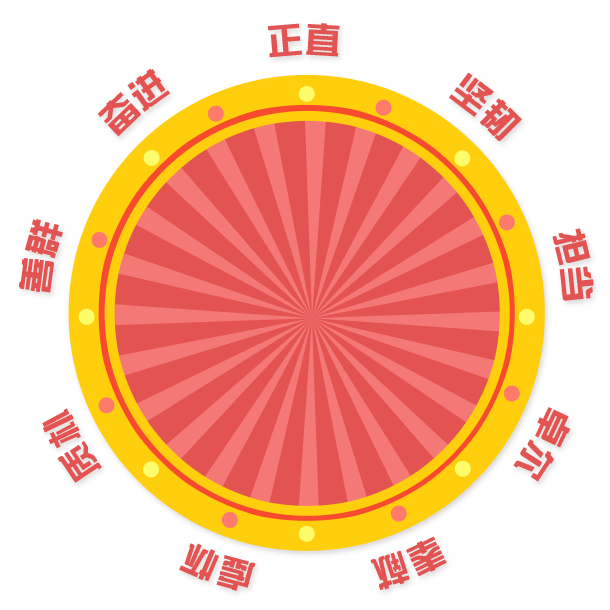
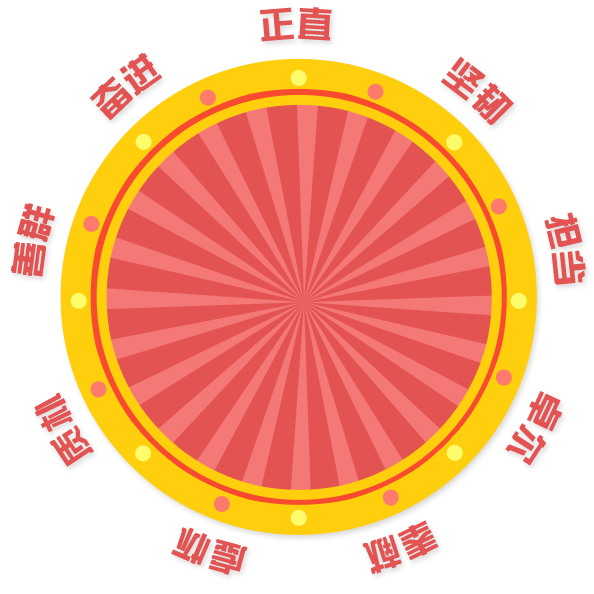
may be ok

Changed region(s): [[0.0, 0.0, 1.0, 0.9697]]

diff --git a/app/templates/draw.html b/app/templates/draw.html
@@ -2,6 +2,7 @@
 
 {% block header %}
     <link rel="stylesheet" href="/static/css/draw.css">
+    <link rel="stylesheet" href="/static/css/animate.css">
 {% endblock %}
 
 {% block content %}
@@ -9,19 +10,54 @@
         <img src="/static/img/draw/header.png" alt="">
     </div>
     <div class="draw__wheel--wrap">
-        <div class="draw__wheel">
-            <img src="/static/img/draw/pointer2.png" alt="">
+        <div id="wheel" class="draw__wheel">
+            <img class="dash" id="pointer" src="/static/img/draw/pointer2.png" alt="">
         </div>
     </div>
-    <form action="/draw" method="post">
+    <form id="draw__form" action="/draw" method="post" onsubmit="return next()">
         <input type="hidden" name="id" value="{{ id }}">
         <input
+            id="draw__input"
             maxlength="10"
             class="draw__input"
             placeholder="请输入你的名字"
             type="text"
             name="name"
         >
-        <input class="draw__submit" type="submit" value="确　认">
+        <input id="personalityId" type="hidden" name="personalityId">
+        <input id="draw__submit" class="draw__submit" type="submit" value="确　认">
     </form>
+    <script>
+        function next() {
+            if (!document.getElementById('draw__input').value) return true
+            var dg = 40
+            var deg = parseInt(Math.random() * 90) * 40 + 2400
+            var personalityId = deg % 360 / 40
+            var submitBtn = document.getElementById('draw__submit')
+            submitBtn.disabled = true
+
+            document.getElementById('pointer').src = '/static/img/draw/pointer3.png'
+            $('#wheel').css({
+                'background': 'url("/static/img/draw/wheel3.png") no-repeat center center',
+                '-webkit-background-size': '100% auto',
+                'background-size': '100% auto',
+                'width': '100%'
+            })
+            $('#pointer').css({
+                '-webkit-transform': 'rotateZ(' + deg + 'deg)',
+                '-moz-transform': 'rotateZ(' + deg + 'deg)',
+                '-ms-transform': 'rotateZ(' + deg + 'deg)',
+                '-o-transform': 'rotateZ(' + deg + 'deg)',
+                'transform': 'rotateZ(' + deg + 'deg)'
+            })
+            setTimeout(function () {
+                var form = document.getElementById('draw__form')
+                var pInput = document.getElementById('personalityId')
+                pInput.value = personalityId
+                form.onsubmit = true
+                form.submit()
+            }, 5000)
+            return false
+        }
+    </script>
 {% endblock %}

diff --git a/static/css/animate.css b/static/css/animate.css
@@ -1,0 +1,79 @@
+
+.dash {
+  -webkit-transition: all 5s cubic-bezier(0.25, 0.1, 0.25, 1);
+  -moz-transition: all 5s cubic-bezier(0.25, 0.1, 0.25, 1);
+  -ms-transition: all 5s cubic-bezier(0.25, 0.1, 0.25, 1);
+  -o-transition: all 5s cubic-bezier(0.25, 0.1, 0.25, 1);
+  transition: all 5s cubic-bezier(0.25, 0.1, 0.25, 1);
+  -webkit-transform: rotateZ(0deg);
+  -moz-transform: rotateZ(0deg);
+  -ms-transform: rotateZ(0deg);
+  -o-transform: rotateZ(0deg);
+  transform: rotateZ(0deg);
+}
+
+.rdash {
+  -webkit-transform: rotateZ(-3600deg);
+  -moz-transform: rotateZ(-3600deg);
+  -ms-transform: rotateZ(-3600deg);
+  -o-transform: rotateZ(-3600deg);
+  transform: rotateZ(-3600deg);
+}
+
+.spin {
+  -webkit-animation-name: spin;
+  -webkit-animation-duration: 10000ms;
+  -webkit-animation-iteration-count: infinite;
+  -webkit-animation-timing-function: linear;
+  -moz-animation-name: spin;
+  -moz-animation-duration: 10000ms;
+  -moz-animation-iteration-count: infinite;
+  -moz-animation-timing-function: linear;
+  -ms-animation-name: spin;
+  -ms-animation-duration: 10000ms;
+  -ms-animation-iteration-count: infinite;
+  -ms-animation-timing-function: linear;
+}
+
+.rspin {
+  -webkit-animation-name: rspin;
+  -webkit-animation-duration: 10000ms;
+  -webkit-animation-iteration-count: infinite;
+  -webkit-animation-timing-function: linear;
+  -moz-animation-name: rspin;
+  -moz-animation-duration: 10000ms;
+  -moz-animation-iteration-count: infinite;
+  -moz-animation-timing-function: linear;
+  -ms-animation-name: rspin;
+  -ms-animation-duration: 10000ms;
+  -ms-animation-iteration-count: infinite;
+  -ms-animation-timing-function: linear;
+}
+
+
+@-moz-keyframes spin {
+    from { -moz-transform: rotate(0deg); }
+    to { -moz-transform: rotate(360deg); }
+}
+@-webkit-keyframes spin {
+    from { -webkit-transform: rotate(0deg); }
+    to { -webkit-transform: rotate(360deg); }
+}
+@keyframes spin {
+    from {transform:rotate(0deg);}
+    to {transform:rotate(360deg);}
+}
+
+
+@-moz-keyframes rspin {
+    from { -moz-transform: rotate(0deg); }
+    to { -moz-transform: rotate(-360deg); }
+}
+@-webkit-keyframes rspin {
+    from { -webkit-transform: rotate(0deg); }
+    to { -webkit-transform: rotate(-360deg); }
+}
+@keyframes rspin {
+    from {transform:rotate(0deg);}
+    to {transform:rotate(-360deg);}
+}

diff --git a/static/css/draw.css b/static/css/draw.css
@@ -11,7 +11,7 @@ body {
 
 .draw__wheel--wrap {
   width: 100%;
-  padding: 0 8%;
+  padding: 2% 9%;
 }
 
 .draw__wheel {
@@ -19,63 +19,11 @@ body {
   background: url("/static/img/draw/wheel2.png") no-repeat center center;
   -webkit-background-size: 100% auto;
   background-size: 100% auto;
-
-  -webkit-animation-name: spin;
-  -webkit-animation-duration: 40000ms;
-  -webkit-animation-iteration-count: infinite;
-  -webkit-animation-timing-function: linear;
-  -moz-animation-name: spin;
-  -moz-animation-duration: 40000ms;
-  -moz-animation-iteration-count: infinite;
-  -moz-animation-timing-function: linear;
-  -ms-animation-name: spin;
-  -ms-animation-duration: 40000ms;
-  -ms-animation-iteration-count: infinite;
-  -ms-animation-timing-function: linear;
-
 }
 
-@-moz-keyframes spin {
-    from { -moz-transform: rotate(0deg); }
-    to { -moz-transform: rotate(360deg); }
-}
-@-webkit-keyframes spin {
-    from { -webkit-transform: rotate(0deg); }
-    to { -webkit-transform: rotate(360deg); }
-}
-@keyframes spin {
-    from {transform:rotate(0deg);}
-    to {transform:rotate(360deg);}
-}
 
 .draw__wheel img {
   width: 100%;
-  -webkit-animation-name: rspin;
-  -webkit-animation-duration: 40000ms;
-  -webkit-animation-iteration-count: infinite;
-  -webkit-animation-timing-function: linear;
-  -moz-animation-name: rspin;
-  -moz-animation-duration: 40000ms;
-  -moz-animation-iteration-count: infinite;
-  -moz-animation-timing-function: linear;
-  -ms-animation-name: rspin;
-  -ms-animation-duration: 40000ms;
-  -ms-animation-iteration-count: infinite;
-  -ms-animation-timing-function: linear;
-}
-
-
-@-moz-keyframes rspin {
-    from { -moz-transform: rotate(0deg); }
-    to { -moz-transform: rotate(-360deg); }
-}
-@-webkit-keyframes rspin {
-    from { -webkit-transform: rotate(0deg); }
-    to { -webkit-transform: rotate(-360deg); }
-}
-@keyframes rspin {
-    from {transform:rotate(0deg);}
-    to {transform:rotate(-360deg);}
 }
 
 

diff --git a/app/templates/empty.html b/app/templates/empty.html
@@ -1,0 +1,39 @@
+{% extends "base.html" %}
+
+{% block header %}
+    <style>
+        .container {
+            height: 100vh;
+            font-size: 3em;
+            text-align: center;
+        }
+        .container::after, div {
+            display: inline-block;
+            vertical-align: middle;
+        }
+
+        .error-img {
+            display: block;
+            text-align: center;
+            margin: 20% 0;
+        }
+        .error-img img {
+            width: 50%;
+        }
+
+
+        div::after {
+            content: '';
+            height: 100%;
+        }
+    </style>
+{% endblock %}
+
+{% block content %}
+    <div>
+        <div class="error-img">
+            <img src="/static/img/empty.png" >
+        </div>
+        <div>输入的名字不能为空</div>
+    </div>
+{% endblock %}

diff --git a/app/templates/result.html b/app/templates/result.html
@@ -2,6 +2,13 @@
 
 {% block header %}
     <link rel="stylesheet" href="/static/css/result.css">
+    <style>
+        body {
+           background: url("/static/img/result/bg{{ pId }}.png") no-repeat center center;
+           -webkit-background-size: 100% auto;
+           background-size: 100% auto;
+        }
+    </style>
 {% endblock %}
 
 {% block content %}

diff --git a/static/css/result.css b/static/css/result.css
@@ -1,8 +1,3 @@
-body {
-  background: url("/static/img/result/bg6.png") no-repeat center center;
-  -webkit-background-size: 100% auto;
-  background-size: 100% auto;
-}
 
 .container {
   width: 100%;

diff --git a/app/main/handler.py b/app/main/handler.py
@@ -19,15 +19,27 @@ def draw():
             return render_template('index.html',
                                    imgs=[1, 2, 3, 4, 5, 6])
     else:
-        id = int(request.form['id'])
-        name = request.form['name']
-        print('1231231231', id, name)
-        url = get_result_url_by_name_and_id(name, id)
-        print(url)
+        id = int(request.form.get('id'))
+        name = request.form.get('name')
+
+        if id is None:
+            return render_template('index.html',
+                                   imgs=[1, 2, 3, 4, 5, 6])
+        elif name is None or name == '':
+            return render_template('empty.html')
+
+        pId = request.form.get('personalityId')
+        try:
+            if pId is not None:
+                pId = int(pId) + 1
+            url, pId = get_result_url_by_name_and_id(name, id, pId)
+        except ValueError:
+            url, pId = get_result_url_by_name_and_id(name, id)
         return render_template('result.html',
                                url=url,
                                id=id,
-                               name=name)
+                               name=name,
+                               pId=pId)
 
 
 @main_blueprint.route('/result')

diff --git a/app/main/util.py b/app/main/util.py
@@ -29,10 +29,15 @@ def add_name(fn, name, result_fn):
     return os.path.join(RESULT_REL_DIR, 'results', result_fn)
 
 
-def get_result_url_by_name_and_id(name, id):
+def get_result_url_by_name_and_id(name, id, pId=None):
     SENTENCES_DIR = os.path.join(app.config['IMG_DIR'], 'sentences', str(id))
+    result_fn = str(uuid.uuid1()) + '.png'
+    result_fn = '2.png'
+    if pId is not None:
+        selected_file = str(pId) + '.png'
+        return add_name(os.path.join(SENTENCES_DIR, selected_file), name, result_fn), selected_file.split('.png')[0]
     files = os.listdir(SENTENCES_DIR)
     selected_file = files[int(random() * len(files))]
-    result_fn = str(uuid.uuid1()) + '.png'
     print(time.strftime("%Y-%m-%d %X", time.localtime()), ': ', selected_file)
-    return add_name(os.path.join(SENTENCES_DIR, selected_file), name, '2.png')
+    return add_name(os.path.join(SENTENCES_DIR, selected_file), name, '2.png'), selected_file.split('.png')[0]
+
